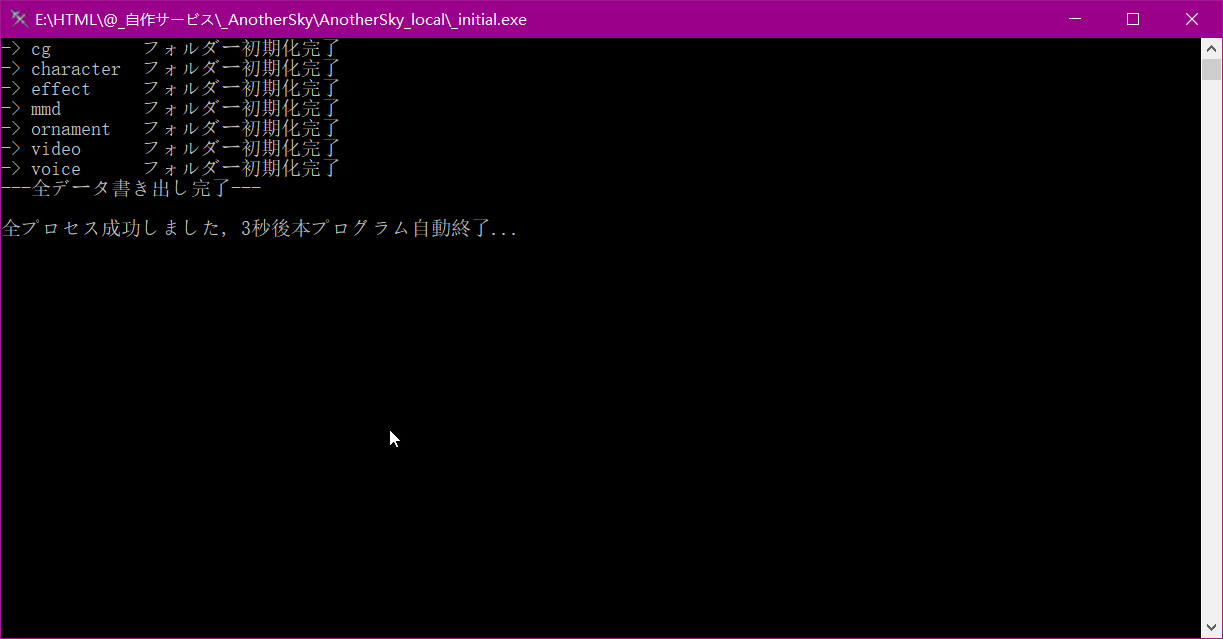
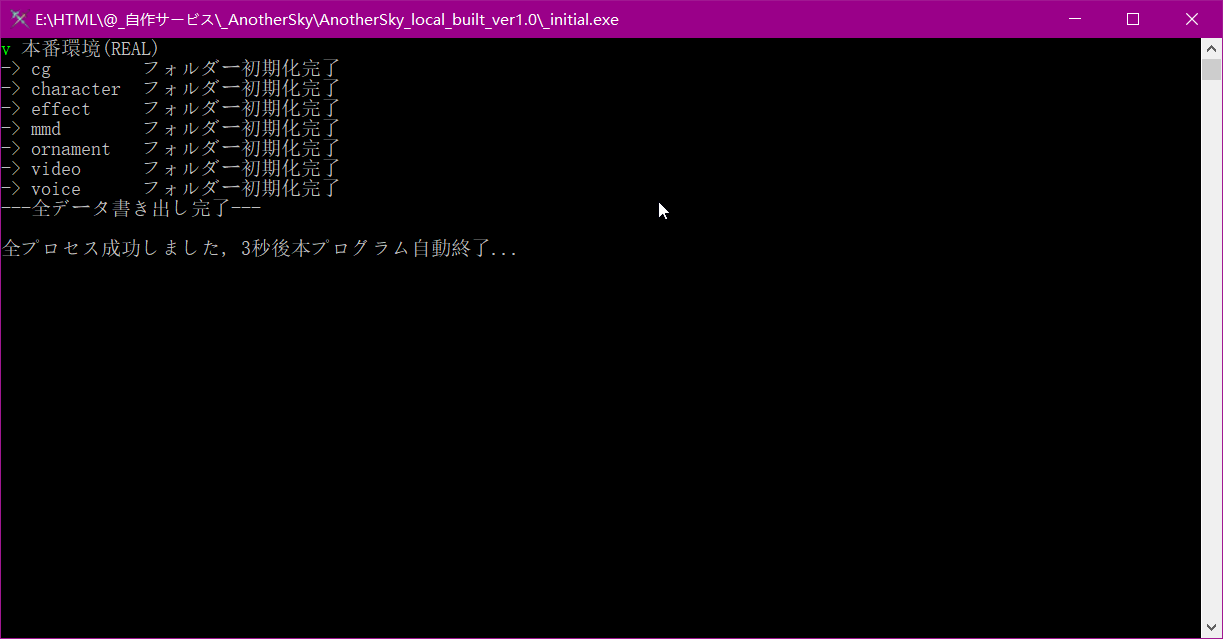
update

Changed region(s): [[0.0, 0.0595, 0.4039, 0.4163], [0.3729, 0.0, 0.4971, 0.0595]]

diff --git a/README.md b/README.md
@@ -3,18 +3,18 @@
 - 簡単に流れを説明
 1. 自分のパソコンにNodejsをインストール
 
-2. @install.batを実行して必要なパッケージをダウンロード
+2. Releasesから最新バージョンのビルド済みのコードをダウンロード
 
 3. _start.batを実行してプログラムを作動テスト(ctrl + cでサーバー終了)
 
-4. 成功したらpublicフォルダの下で自分の欲しいメディアファイルを配置
+4. 成功したらdistフォルダの下で自分の欲しいメディアファイルを配置
 
-5. _init.extを実行してメディア情報を初期化 (「開発環境(DEV)」の項目を選択, 自分がbuildできるの方は「本番環境(REAL)」を使ってください)
+5. _init.extを実行してメディア情報を初期化 (「本番環境(REAL)」を選択)
 
 6. _start.batを実行してプログラムを作動(ctrl + cでサーバー終了)
 
 ***
-#### public フォルダ中身の説明
+#### dist フォルダ中身の説明
 ![配置説明](./README/ファイル構造.png)
 
 ***
@@ -32,7 +32,7 @@
 もしご自身のパソコンが以下のように画面拡大倍率が設置された場合、
 ![DPI](./README/DPI.png)
 
-ブラウザ内部の解像度は下げてしまいますので、実際レンダリングされた画像の画質も下げます、以下のコードをブラウザのショートカットに追加すれば問題が解決できます。(コード先頭の半角スペースの空白も必要です、ご注意)
+ブラウザ内部の解像度は下げてしまいますので、実際レンダリングされた画像の画質も下げます、特に問題になるのはアプリ内の各ボタンも拡大されてしまいます、以下のコードをブラウザのショートカットに追加すれば問題が解決できます。(コード先頭の半角スペースの空白も必要です、ご注意)
 ```
  --force-device-scale-factor=1
 ```
